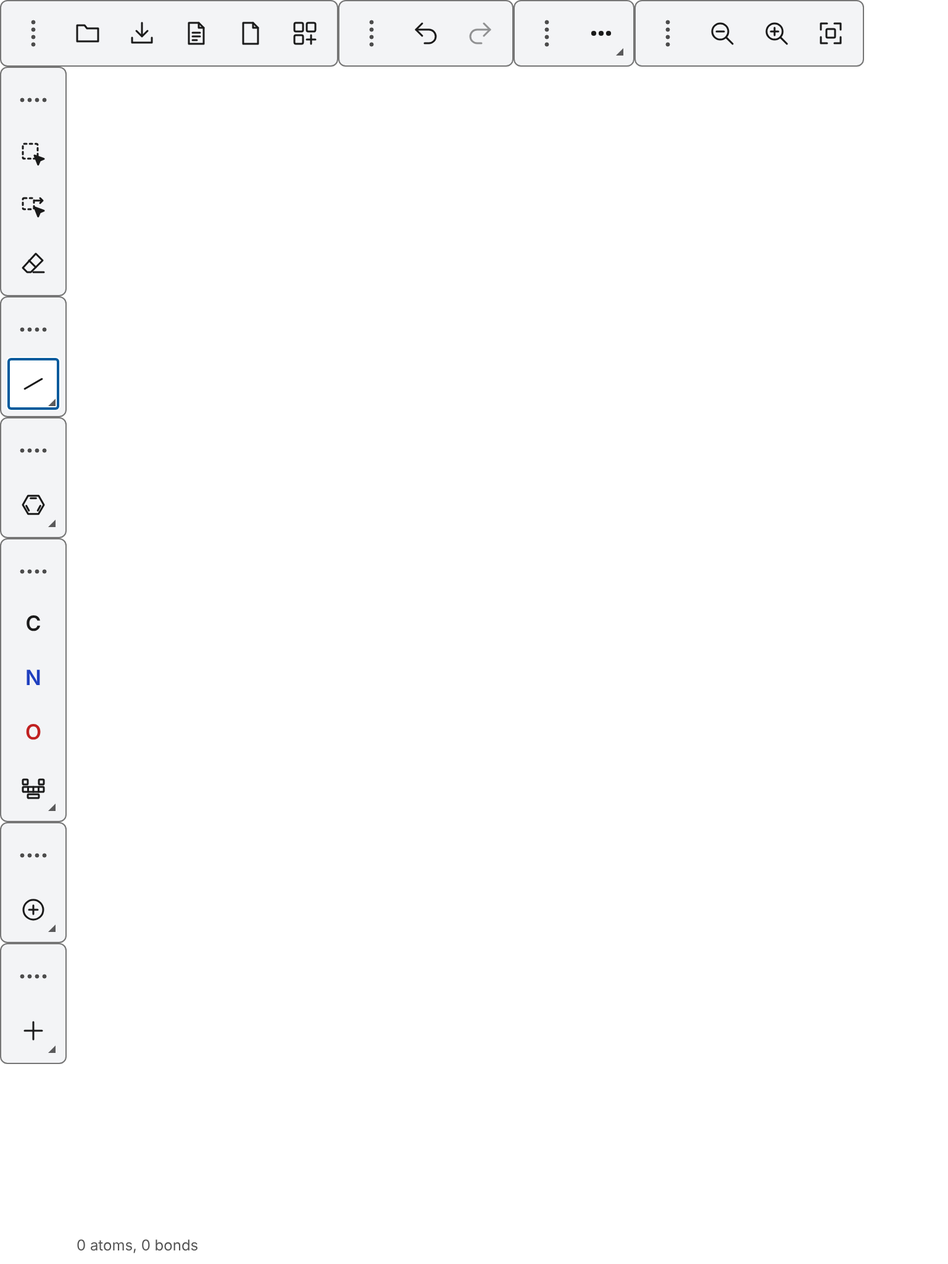
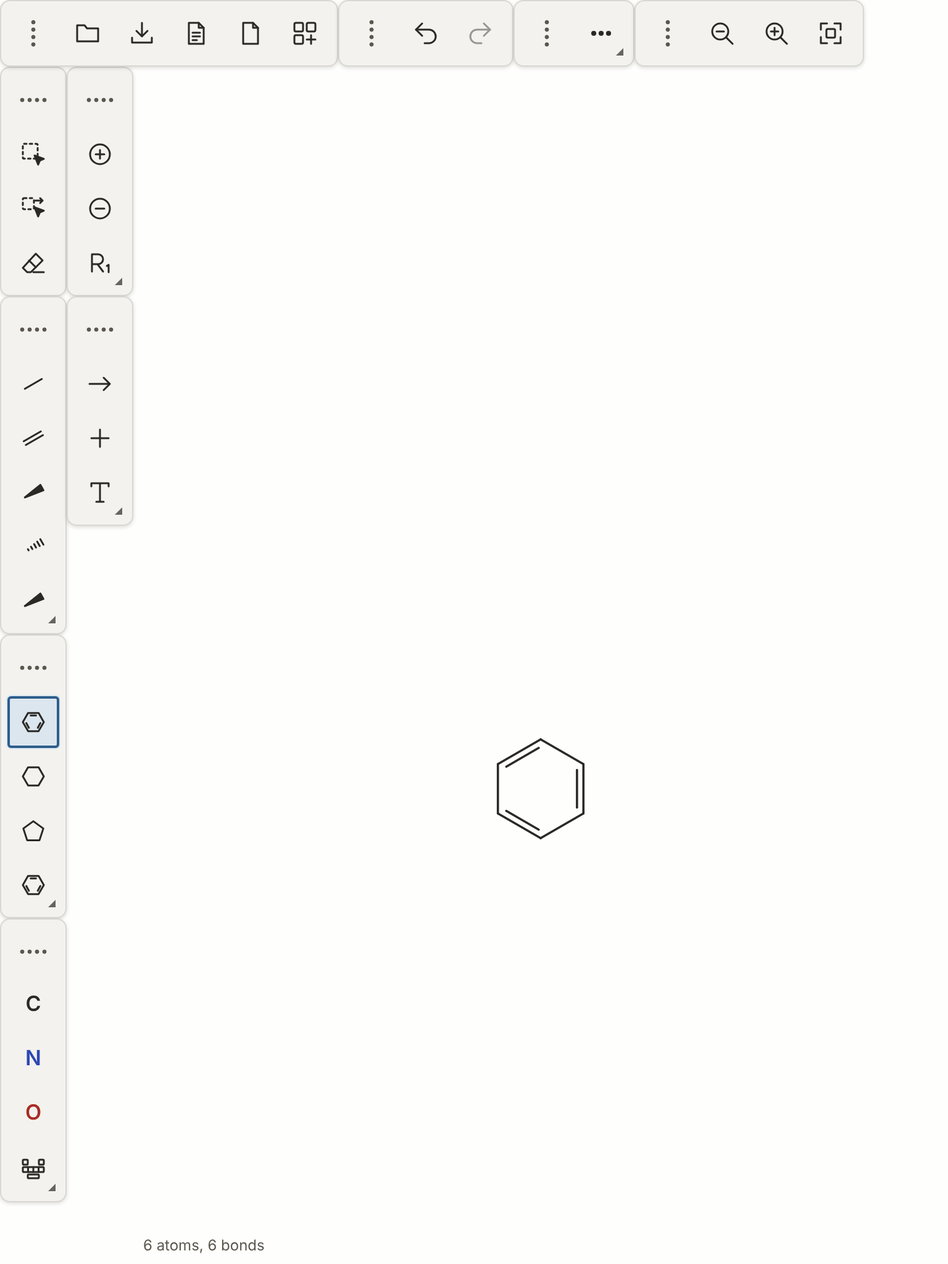
Light and dark tokens: the --mzd-* layer with WCAG AA and colour-distance tests (UI PR 3) (#64)
* Light and dark tokens: the --mzd-* layer with WCAG AA and colour-distance tests (UI PR 3, prep)

Claude-Session: https://claude.ai/code/session_01Ly8Apmm9AdSfoAgXXCmco3

* Tokens: the review fixes of the palettes page use the --mzd-* layer; built note and screenshots

Claude-Session: https://claude.ai/code/session_01Ly8ApnR6CMghdRhEmK6FkG

* Tokens review: contrast of every pair a colour meets, canvas pixels read back, shots with a drawing

New pairs (muted, danger, control and the focus ring on hover, soft accent and selection; atom colours on the
selection halo) and token values that pass them in both themes; the theme step reads the 2D context and a
screenshot pixel back against the tokens in both themes, in its own browser context; the e2e failure report
shows the call log and the throwing line; theme and tablet shots (light and dark) are taken with a drawing,
a selection and a valence mistake; docs/built/tokens.md says where the specification lives.

Claude-Session: https://claude.ai/code/session_01Ly8ApnR6CMghdRhEmK6FkG

* Keep the most-drawn tools in view in collapsed palettes; the velocity bench counts a hidden tool's flyout as actions

Single and double bond, the wedges, benzene, cyclohexane, cyclopentane, the charges, the arrow and the plus
stay visible when their palette is collapsed, so every task of tests/data/velocity keeps its action count
(--check passes, baseline unchanged); the bench counts the presses needed to reach a tool that is not in view.
[…]

diff --git a/web/mzdraw.css b/web/mzdraw.css
@@ -1,53 +1,74 @@
-/* The page: colours only from these variables (the canvas reads them too). */
-:root { --fg: #1a1a1a; --bg: #ffffff; --panel: #f3f4f6; --line: #767676; --grip: #4d4d4d; --accent: #005a9c; --d2-ink: #111111; --d2-select: #9cc7ee; --d2-hover: #d5d9de; --d2-warn: #c62828; --d2-preview: #5b7fa6; --d2-n: #1f3fbf; --d2-o: #c02020; --d2-s: #8a6d00; --d2-x: #1f7a1f; --d2-p: #b05a00; --d2-focus: #005a9c; }
-@media (prefers-color-scheme: dark) { :root { --fg: #ececec; --bg: #1b1b1b; --panel: #262626; --line: #9a9a9a; --grip: #d0d0d0; --accent: #7cc0ff; --d2-ink: #f0f0f0; --d2-select: #2f5f8a; --d2-hover: #454545; --d2-warn: #ff8a80; --d2-preview: #9db8d6; --d2-n: #8fa8ff; --d2-o: #ff8a80; --d2-s: #e6c14a; --d2-x: #7fd37f; --d2-p: #ffb066; --d2-focus: #7cc0ff; } }
-html, body { margin: 0; height: 100%; background: var(--bg); color: var(--fg); font: 14px/1.4 system-ui, sans-serif; }
+/* The page: every colour comes from the token layer --mzd-* (a light and a dark set, chosen by prefers-color-scheme or by
+   data-theme="light|dark" on the root, so a host such as mzLab maps its own theme onto the tokens without touching the page).
+   The prefix is NAMES.tokens of web/names.js; CSS cannot read it, so it is written out here only. The canvas reads the --d2-*
+   names, the rules the short names below, both made of tokens. Contrast of the token pairs is measured in tests/e2e.mjs. */
+:root, :root[data-theme="light"] { color-scheme: light;
+  --mzd-surface: #f3f2ee; --mzd-surface-raised: #fbfaf8; --mzd-paper: #fefefc; --mzd-border: rgb(43 40 34 / .13); --mzd-control: #7a756b;
+  --mzd-ink: #2a2925; --mzd-ink-muted: #5c5850; --mzd-accent: #2d5d8c; --mzd-accent-soft: #dce6ef; --mzd-hover: #e7e5df;
+  --mzd-selection: #c5d8ea; --mzd-focus: #2f6aa6; --mzd-danger: #a3231b; --mzd-shadow: rgb(43 40 34 / .16);
+  --mzd-atom-n: #2d47b5; --mzd-atom-o: #a92b25; --mzd-atom-s: #6b5300; --mzd-atom-x: #25652a; --mzd-atom-p: #8c4600; --mzd-preview: #62809f; }
+@media (prefers-color-scheme: dark) { :root:not([data-theme="light"]) { color-scheme: dark;
+  --mzd-surface: #22221f; --mzd-surface-raised: #2b2a27; --mzd-paper: #1b1b19; --mzd-border: rgb(240 234 222 / .12); --mzd-control: #8b867d;
+  --mzd-ink: #e2dfd8; --mzd-ink-muted: #b4afa5; --mzd-accent: #93b9e0; --mzd-accent-soft: #2f3e4f; --mzd-hover: #353430;
+  --mzd-selection: #2a3f54; --mzd-focus: #8db6e2; --mzd-danger: #f59b91; --mzd-shadow: rgb(0 0 0 / .45);
+  --mzd-atom-n: #aab9ff; --mzd-atom-o: #ff9a90; --mzd-atom-s: #e3c862; --mzd-atom-x: #8ed38e; --mzd-atom-p: #f7b070; --mzd-preview: #9ab3cf; } }
+:root[data-theme="dark"] { color-scheme: dark;
+  --mzd-surface: #22221f; --mzd-surface-raised: #2b2a27; --mzd-paper: #1b1b19; --mzd-border: rgb(240 234 222 / .12); --mzd-control: #8b867d;
+  --mzd-ink: #e2dfd8; --mzd-ink-muted: #b4afa5; --mzd-accent: #93b9e0; --mzd-accent-soft: #2f3e4f; --mzd-hover: #353430;
+  --mzd-selection: #2a3f54; --mzd-focus: #8db6e2; --mzd-danger: #f59b91; --mzd-shadow: rgb(0 0 0 / .45);
+  --mzd-atom-n: #aab9ff; --mzd-atom-o: #ff9a90; --mzd-atom-s: #e3c862; --mzd-atom-x: #8ed38e; --mzd-atom-p: #f7b070; --mzd-preview: #9ab3cf; }
+/* the names the canvas reads (web/mzdraw.js COLOURS) */
+:root { --d2-ink: var(--mzd-ink); --d2-select: var(--mzd-selection); --d2-hover: var(--mzd-hover); --d2-warn: var(--mzd-danger); --d2-preview: var(--mzd-preview);
+  --d2-n: var(--mzd-atom-n); --d2-o: var(--mzd-atom-o); --d2-s: var(--mzd-atom-s); --d2-x: var(--mzd-atom-x); --d2-p: var(--mzd-atom-p); --d2-focus: var(--mzd-focus); }
+:root { --fg: var(--mzd-ink); --bg: var(--mzd-surface-raised); --panel: var(--mzd-surface); --line: var(--mzd-control); --accent: var(--mzd-accent); --grip: var(--mzd-ink-muted); }
+html, body { margin: 0; height: 100%; background: var(--mzd-paper); color: var(--fg); font: 14px/1.4 system-ui, sans-serif; }
 body { overflow: hidden; }
 h2 { font-size: 13px; margin: 8px 0 4px; }
 button { -webkit-tap-highlight-color: transparent; min-height: 32px; min-width: 32px; padding: 2px 8px; color: var(--fg); background: var(--bg); border: 1px solid var(--line); border-radius: 4px; cursor: pointer; font: inherit; }
-button[aria-pressed="true"] { background: var(--accent); color: var(--bg); border-color: var(--accent); font-weight: 600; }
+button[aria-pressed="true"] { background: var(--mzd-accent-soft); color: var(--fg); border-color: var(--accent); font-weight: 600; }
 .field { display: flex; align-items: center; gap: 4px; }
 .field select { min-height: 32px; color: var(--fg); background: var(--bg); border: 1px solid var(--line); border-radius: 4px; font: inherit; }
-.field select:focus-visible { outline: 3px solid var(--accent); outline-offset: 1px; }
+.field select:focus-visible { outline: 2px solid var(--mzd-focus); outline-offset: 1px; }
 .field input { min-height: 28px; padding: 2px 6px; color: var(--fg); background: var(--bg); border: 1px solid var(--line); border-radius: 4px; font: inherit; }
 #d2-style-fields .field { justify-content: space-between; margin: 4px 0; }
 #d2-style-fields .field span { flex: 1; }
 #d2-style-fields input { width: 6em; }
-#d2-data fieldset { border: 1px solid var(--line); border-radius: 4px; margin: 6px 0; padding: 6px; }
+#d2-data fieldset { border: 1px solid var(--mzd-border); border-radius: 6px; margin: 6px 0; padding: 6px; }
 #d2-data .d2-datum { align-items: flex-start; margin: 4px 0; }
 #d2-data .d2-datum input { width: 8em; min-height: 28px; }
 #d2-data .d2-datum textarea { flex: 1; min-width: 0; min-height: 28px; font: inherit; color: var(--fg); background: var(--bg); border: 1px solid var(--line); border-radius: 4px; }
-#d2-ann fieldset { border: 1px solid var(--line); border-radius: 4px; margin: 6px 0; padding: 6px; }
+#d2-ann fieldset { border: 1px solid var(--mzd-border); border-radius: 6px; margin: 6px 0; padding: 6px; }
 #d2-ann .d2-annf { display: block; margin: 4px 0; }
 #d2-ann .d2-annf input, #d2-ann .d2-annf select, #d2-ann .d2-annf textarea { display: block; width: 100%; box-sizing: border-box; min-height: 28px; font: inherit; color: var(--fg); background: var(--bg); border: 1px solid var(--line); border-radius: 4px; }
 #d2-data-more summary, #d2-ann-more summary, #d2-style-more summary { cursor: pointer; margin: 6px 0; }
 .field input.on { border-color: var(--accent); box-shadow: inset 0 0 0 1px var(--accent); }
-.field input[aria-invalid="true"] { border-color: var(--d2-warn); box-shadow: inset 0 0 0 1px var(--d2-warn); text-decoration: underline wavy var(--d2-warn); }
-.field input:focus-visible { outline: 3px solid var(--accent); outline-offset: 1px; }
+.field input[aria-invalid="true"] { border-color: var(--mzd-danger); box-shadow: inset 0 0 0 1px var(--mzd-danger); text-decoration: underline wavy var(--mzd-danger); }
+.field input:focus-visible { outline: 2px solid var(--mzd-focus); outline-offset: 1px; }
 button:disabled { opacity: .45; cursor: default; }
-button:focus-visible, canvas:focus-visible, textarea:focus-visible { outline: 3px solid var(--accent); outline-offset: 1px; }
+button:focus-visible, canvas:focus-visible, textarea:focus-visible, summary:focus-visible, input[type="checkbox"]:focus-visible { outline: 2px solid var(--mzd-focus); outline-offset: 2px; }
+canvas:focus-visible { outline-offset: -3px; }
 #d2-restore[hidden] { display: none; }
 #d2-restore { position: absolute; left: 8px; right: 8px; top: 8px; display: flex; flex-wrap: wrap; gap: 8px; align-items: center; padding: 6px 10px; background: var(--panel); border: 1px solid var(--line); border-bottom: 2px solid var(--accent); border-radius: 6px; }
 /* the canvas takes the area the palettes leave free (placed by the module's layout) */
 #d2-stage { position: fixed; left: 0; top: 0; width: 100vw; height: 100vh; }
-#d2-canvas { display: block; width: 100%; height: 100%; touch-action: none; background: var(--bg); cursor: crosshair; }
-#d2-status { position: absolute; left: 8px; bottom: 6px; color: var(--fg); opacity: .75; pointer-events: none; font-size: 12px; }
+#d2-canvas { display: block; width: 100%; height: 100%; touch-action: none; background: var(--mzd-paper); cursor: crosshair; }
+#d2-status { position: absolute; left: 8px; bottom: 6px; color: var(--mzd-ink-muted); pointer-events: none; font-size: 12px; }
 /* palettes: placed by the module (left, top); a row at the top or bottom, a column at the sides, either when floating */
-.pal { position: fixed; z-index: 10; display: flex; width: max-content; box-sizing: border-box; padding: 4px; background: var(--panel); border: 1px solid var(--line); border-radius: 6px; }
+.pal { position: fixed; z-index: 10; display: flex; width: max-content; box-sizing: border-box; padding: 4px; background: var(--panel); border: 1px solid var(--mzd-border); border-radius: 8px; box-shadow: 0 1px 3px var(--mzd-shadow); }
 .pal[hidden] { display: none; }
 .pal[data-orient="v"] { flex-direction: column; }
 .pal .items { display: flex; gap: 0; }
 .pal[data-orient="v"] .items { flex-direction: column; }
-.pal.moving { z-index: 30; box-shadow: 0 6px 18px rgb(0 0 0 / .25); }
+.pal.moving { z-index: 30; box-shadow: 0 6px 18px var(--mzd-shadow); }
 .pal .items button { display: inline-flex; align-items: center; justify-content: center; width: 44px; height: 44px; min-width: 0; padding: 0; border-color: transparent; background: transparent; }
-@media (hover: hover) { .pal .items button:hover:not(:disabled), .fly button:hover:not(:disabled), .grip:hover { background-color: var(--bg); } }
+@media (hover: hover) { .pal .items button:hover:not(:disabled), .fly button:hover:not(:disabled), .grip:hover { background-color: var(--mzd-hover); } }
 .pal .txt { position: absolute; width: 1px; height: 1px; overflow: hidden; clip-path: inset(50%); }
 .pal .head { position: relative; }
 .pal .head::after { content: ""; position: absolute; right: 3px; bottom: 3px; border: 3px solid transparent; border-right-color: currentColor; border-bottom-color: currentColor; opacity: .7; }
 .grip { flex: none; box-sizing: border-box; min-width: 0; min-height: 0; border: 0; border-radius: 3px; background: radial-gradient(circle, var(--grip) 1.5px, transparent 1.9px) 0 0 / 6px 6px; background-clip: content-box; background-origin: content-box; cursor: grab; touch-action: none; }
 .pal[data-orient="v"] > .grip { height: 24px; width: 100%; padding: 9px 10px; }
 .pal[data-orient="h"] > .grip { width: 24px; align-self: stretch; padding: 10px 9px; }
-.pal .items button[aria-pressed="true"], .fly button[aria-pressed="true"] { background: var(--bg); color: var(--fg); box-shadow: inset 0 0 0 2px var(--accent); }
+.pal .items button[aria-pressed="true"], .fly button[aria-pressed="true"] { background: var(--mzd-accent-soft); color: var(--fg); box-shadow: inset 0 0 0 2px var(--accent); }
 .grip:active { cursor: grabbing; }
 .ico { width: 24px; height: 24px; flex: none; }
 .sym { font-weight: 600; font-size: 17px; min-width: 24px; text-align: center; }
@@ -59,14 +80,14 @@ button:focus-visible, canvas:focus-visible, textarea:focus-visible { outline: 3p
 .pal.side { flex-direction: column; width: 280px; max-height: max(120px, calc((100vh - 280px) / 3)); padding: 4px 10px 6px; }
 /* what does not fit scrolls, and says so: a shadow at the edge that has more behind it */
 .pal.side > details { overflow: auto; min-height: 0; background-color: var(--panel);
-  background-image: linear-gradient(var(--panel) 40%, transparent), linear-gradient(transparent, var(--panel) 60%), radial-gradient(farthest-side at 50% 0, rgb(0 0 0 / .3), transparent), radial-gradient(farthest-side at 50% 100%, rgb(0 0 0 / .3), transparent);
+  background-image: linear-gradient(var(--panel) 40%, transparent), linear-gradient(transparent, var(--panel) 60%), radial-gradient(farthest-side at 50% 0, var(--mzd-shadow), transparent), radial-gradient(farthest-side at 50% 100%, var(--mzd-shadow), transparent);
   background-position: 0 0, 0 100%, 0 0, 0 100%; background-repeat: no-repeat; background-size: 100% 24px, 100% 24px, 100% 9px, 100% 9px; background-attachment: local, local, scroll, scroll; }
 .pal.side > details > summary { padding: 4px 0; }
 .pal.side p, .pal.side h2, .pal.side ul { margin: 2px 0; }
 .pal.side h2 { font-size: 1em; }
 .pal.side textarea { display: block; }
 /* flyouts: beside the button that opens them, on the side away from the palette's edge */
-#d2-flys .fly { position: fixed; z-index: 40; display: flex; flex-direction: column; gap: 2px; min-width: 200px; max-height: 80vh; overflow: auto; padding: 6px; background: var(--panel); border: 1px solid var(--line); border-radius: 6px; box-shadow: 0 6px 20px rgb(0 0 0 / .2); }
+#d2-flys .fly { position: fixed; z-index: 40; display: flex; flex-direction: column; gap: 2px; min-width: 200px; max-height: 80vh; overflow: auto; padding: 6px; background: var(--bg); border: 1px solid var(--mzd-border); border-radius: 8px; box-shadow: 0 6px 20px var(--mzd-shadow); }
 #d2-flys .fly[hidden], #d2-fly-saveas[hidden] { display: none; }
 .fly button[data-cmd], .fly button[data-opens] { display: flex; align-items: center; justify-content: flex-start; gap: 8px; width: 100%; min-height: 40px; border-color: transparent; background: transparent; }
 .fly.grid { display: grid; grid-template-columns: repeat(5, 44px); min-width: 0; }
@@ -85,7 +106,7 @@ button:focus-visible, canvas:focus-visible, textarea:focus-visible { outline: 3p
 .menu input:disabled { cursor: default; border-style: dashed; border-color: var(--line); background: var(--panel); }
 .menu input:checked:disabled { background: var(--line); border-color: var(--line); }
 .menu input:focus-visible { outline: 3px solid var(--d2-focus); outline-offset: 2px; }
-#d2-dock-hint { position: fixed; z-index: 25; background: var(--accent); opacity: .45; pointer-events: none; }
+#d2-dock-hint { position: fixed; z-index: 25; background: var(--mzd-accent); opacity: .5; pointer-events: none; }
 #d2-dock-hint[data-edge="left"] { left: 0; top: 0; bottom: 0; width: 6px; } #d2-dock-hint[data-edge="right"] { right: 0; top: 0; bottom: 0; width: 6px; }
 #d2-dock-hint[data-edge="top"] { left: 0; right: 0; top: 0; height: 6px; } #d2-dock-hint[data-edge="bottom"] { left: 0; right: 0; bottom: 0; height: 6px; }
 #d2-show-all { position: fixed; z-index: 30; left: 6px; top: 6px; }

diff --git a/web/palettes.js b/web/palettes.js
@@ -15,11 +15,12 @@ const P = NAMES.id;
  * palettes are written in index.html. */
 const SPEC = /** @type {Record<string, any>} */ ({
   tools: { items: ["select", "move-here", "erase"], tool: true },
-  bonds: { items: ["bond:1", "bond:2", "bond:3", "bond:up", "bond:down", "bond:wavy"], tool: true },
-  rings: { items: ["ring:6a", "ring:3", "ring:4", "ring:5", "ring:6", "ring:7", "ring:8"], tool: true },
+  // the kinds drawn most (single and double bond, the wedges, benzene, cyclohexane, cyclopentane, a charge, an arrow, a plus) stay in view when the palette is collapsed
+  bonds: { keep: ["bond:1", "bond:2", "bond:up", "bond:down"], items: ["bond:3", "bond:wavy"], tool: true },
+  rings: { keep: ["ring:6a", "ring:6", "ring:5"], items: ["ring:3", "ring:4", "ring:7", "ring:8"], tool: true },
   atoms: { keep: ["atom:C", "atom:N", "atom:O"], items: ["atom:S", "atom:P", "atom:F", "atom:Cl", "atom:Br", "atom:I", "atom:H", "atom:B", "atom:Si"], head: "elements", more: "elements", owns: "atom:", fields: ["atom"], grid: true },
-  charges: { items: ["charge:+", "charge:-"], tool: true, owns: "label:", fields: ["label"], more: "label" },
-  objects: { items: ["arrow", "plus"], tool: true, owns: "text:", fields: ["text"], more: "text" },
+  charges: { keep: ["charge:+", "charge:-"], items: [], head: "label", owns: "label:", fields: ["label"], more: "label" },
+  objects: { keep: ["arrow", "plus"], items: [], head: "text", owns: "text:", fields: ["text"], more: "text" },
   file: { items: ["open", "save", "saveas", "clear", "palettes"], head: "open" },
   history: { items: ["undo", "redo"], head: "undo" },
   edit: { items: ["cut", "copy", "paste", "duplicate", "all", "rotate-l", "rotate-r", "flip-h", "flip-v"], head: "more" },
@@ -154,7 +155,7 @@ function palette(id) {
   head.type = "button"; head.className = "head"; head.dataset.testid = P + "head-" + id; head.setAttribute("aria-expanded", "false"); head.setAttribute("aria-controls", P + "fly-" + id);
   const keep = (spec.keep || []).map((/** @type {string} */ c) => button(c, id)), rest = spec.items.map((/** @type {string} */ c) => button(c, id));
   const fields = (spec.fields || []).flatMap((/** @type {string} */ k) => ctx.field(k));
-  const p = { id, spec, el, items, head, keep, rest, fields, last: spec.tool ? spec.items[0] : "", collapsed: /** @type {boolean | null} */ (null),
+  const p = { id, spec, el, items, head, keep, rest, fields, last: spec.tool ? (spec.keep || [])[0] || spec.items[0] : "", collapsed: /** @type {boolean | null} */ (null),
     owns: (/** @type {string} */ c) => spec.items.includes(c) || (!!spec.owns && c.startsWith(spec.owns) && !(spec.keep || []).includes(c)) };
   pals[id] = p;
   const fly = flyout(id, head, id);
@@ -209,7 +210,8 @@ function fold(p, collapsed) {
 export function show(st) {
   for (const p of Object.values(pals)) {
     if (!p.spec) continue;
-    if (p.spec.tool && p.spec.items.includes(st.tool) && p.last !== st.tool) { p.last = st.tool; if (p.collapsed) p.head.replaceChildren(face(p.last)); }
+    // the head shows, and runs, the kind last used, whether that kind is kept in view or in the flyout
+    if (p.spec.tool && [...(p.spec.keep || []), ...p.spec.items].includes(st.tool) && p.last !== st.tool) { p.last = st.tool; if (p.collapsed) p.head.replaceChildren(face(p.last)); }
     const mine = p.owns(st.tool) && (p.collapsed || !p.spec.items.includes(st.tool));
     p.head.setAttribute("aria-pressed", String(mine));
   }
@@ -246,16 +248,20 @@ function shape(r) {
   p.el.hidden = r.hidden; p.el.dataset.dock = r.dock; p.el.dataset.orient = r.horizontal ? "h" : "v";
   p.el.setAttribute("aria-orientation", r.horizontal ? "horizontal" : "vertical");
   if (p.spec) fold(p, r.collapsed);
-  else if (p.body.open === r.collapsed) p.body.open = !r.collapsed;
+  else if (!p.pending && p.body.open === r.collapsed) p.body.open = !r.collapsed;
 }
 
 /** a side palette of index.html: its handle, and its disclosure as the collapsed state of the module @param {HTMLElement} el */
 function side(el) {
   const id = el.dataset.pal || "", body = /** @type {HTMLDetailsElement} */ (el.querySelector(":scope > details"));
-  pals[id] = { id, el, body, spec: null };
+  const p = pals[id] = { id, el, body, spec: null, pending: false };
   el.setAttribute("aria-label", ctx.t(`draw2.pal.${id}`));
   el.prepend(grip(id));
+  // a click on the title opens or closes the disclosure at once, but the `toggle` event that tells the module comes later: until it has,
+  // a layout that runs in between must not put the old state back (that closed a palette the user had just opened)
+  body.querySelector(":scope > summary")?.addEventListener("click", () => { p.pending = true; });
   body.addEventListener("toggle", () => {
+    p.pending = false;
     const r = last?.palettes.find((/** @type {any} */ x) => x.id === id);
     if (r && r.collapsed === body.open) after(ed().palette("collapsed", id, 0, 0, false), true);
   });

diff --git a/web/mzdraw.js b/web/mzdraw.js
@@ -348,6 +348,8 @@ function events() {
   });
   addEventListener("resize", () => { menu.close(); layout(); });
   matchMedia("(prefers-color-scheme: dark)").addEventListener("change", paint);
+  // a host page may set the theme on the root (data-theme="light|dark"): the canvas is painted again in its colours
+  new MutationObserver(paint).observe(document.documentElement, { attributes: true, attributeFilter: ["data-theme"] });
 }
 
 /** adds a structure text, or the bytes of a file, to the drawing and says how it went @param {string | Uint8Array} text */

diff --git a/web/names.js b/web/names.js
@@ -8,4 +8,5 @@ export const NAMES = Object.freeze({
   clip: "application/x-mzdraw+json",          // our own clipboard type: the document
   doc: "drawing.mzdraw.json",                 // the download name of the document
   id: "d2-",                                  // the prefix of the ids the scripts make
+  tokens: "--mzd-",                           // the prefix of the colour tokens (web/mzdraw.css), which a host may set
 });

diff --git a/docs/built/palettes-page.md b/docs/built/palettes-page.md
@@ -3,3 +3,5 @@
 Every group of actions is a palette (`web/palettes.js`): tools, bonds, rings, atoms, charges and labels, reaction and text, file, history, edit, view, and the six side palettes (add a structure, style, data, annotation, check, keyboard help). The page builds them, measures them, sends the pointer (mouse, touch, pen) and key events of their handles to `palette(...)` and paints what `palettes(...)` answers: where each one is, its edge, row or column, collapsed or hidden. A collapsed palette shows its head, which shows the kind last used; the rest is in a flyout reached by click or by the arrow key across the palette. Handles are 24 px for a mouse and 44 px for touch and pen; a double click collapses a palette. The Palettes menu of the File palette shows, hides, collapses and turns each palette, resets the layout and hides them all (`\` on the canvas does the same; a Palettes button brings them back). The layout is kept with the settings file in the browser (OPFS). Save writes `export.default` (SVG unless set); Save as lists the 12 formats. The canvas takes the free area. The ids and storage names the scripts write are in `web/names.js`, the icons (original) in `web/icons.js`. The tools palette holds Select, Move here and Erase; the drawing checks `std/1` list is a section of the Check palette; a side palette is capped at a share of the page height (less on a touch screen, whose handles and buttons are larger) so the right column does not wrap into the canvas, and what does not fit scrolls inside it. The `\` key returns the flag `PALETTES` (128), which the page consumes: it lays the palettes out again and keeps the settings. Covered by two e2e steps (desktop: four edges, floating, snapped, keyboard, menu, `\`, reset, built keys only in tooltips; tablet: 44 px handles, drags by finger and pen, menu by tapping).
 
 Review round: what is decided is in Rust, the page paints it. `palettes(...)` answers the palette being dragged (`held`), the edge it docks on if let go now (`hint_edge`, the one `release` uses) and, per palette, whether it can turn (`can_turn`: only a floating one). The drag threshold is the module's (`DRAG_START`, 4 px): the page always forwards press, move, release and cancel, and a click with a little jitter moves nothing and stores nothing. The handle is named by `aria-label` and says its keys in `aria-description` (arrows, Shift, Enter, Escape, double click, the backslash key). The backslash key also works with the focus on a palette button or handle (not in a text field). The menu boxes are drawn with the page's colours, 44 px on a touch screen; the grip dots have their own token (`--grip`); hover styles apply only where there is a hover. A side palette that cannot show all of its content scrolls and shows a shadow at the edge with more behind it. The e2e checks a reload restores the layout, the jitter click, the handle's description and the key from a handle; the desktop shots are taken with a mouse and keyboard only (`docs/shots/palettes-*.png`, tablet: `palettes-tablet-side.png` without the menu and `palettes-tablet-menu.png` with it).
+
+Velocity: the kinds drawn most stay in view in a collapsed palette (`keep` in `SPEC` of `web/palettes.js`): single and double bond, the two wedges, benzene, cyclohexane, cyclopentane, the two charges, the arrow and the plus; the head of a palette holds the rest in its flyout. The left side is two columns at 720 px. `tests/velocity.mjs` counts a tool that is not in view as the presses needed to open its flyout (the head of a collapsed palette first runs the kind last used, then opens the flyout), so a hidden tool costs actions and the guard (`--check`) sees it; the baseline is unchanged. The head of a collapsed tool palette shows and runs the kind used last, kept in view or in the flyout; on a fresh page it is the first kept kind (the single bond, benzene), never the first kind of the flyout. The e2e step "collapsed palettes" runs on a fresh page and fails with the head seeded from the flyout; the kept kinds are checked visible, by keyboard (Enter), by touch (44 px, a finger runs them) and with no overlap at 720 px. A side palette's disclosure is synced with the module's `collapsed` both ways; while the `toggle` of a click on its title is on its way a layout does not put the old state back (it had closed a palette just opened, now and then).

diff --git a/docs/built/tokens.md b/docs/built/tokens.md
@@ -1,0 +1,12 @@
+# Light and dark tokens, built (PR 3 of the UI work)
+
+Every colour of the page comes from the `--mzd-*` tokens of `web/mzdraw.css` (prefix `NAMES.tokens`): a light and a dark set, chosen by `prefers-color-scheme` or by `data-theme="light|dark"` on the root, so a host maps its theme onto the tokens; the canvas is painted again when either changes. Warm neutral surfaces, ink that is never pure black or white, no yellow field. The e2e step "theme" measures WCAG 2.2 AA in both themes (text 4.5:1, icons, control borders and the focus ring 3:1), keeps the element colours at least ΔE 20 (CIE76) apart, and checks the focus ring. The golden SVGs are unchanged: the tokens colour the page, not the saved files. The side palettes' scroll shadows use `--mzd-shadow`, the grip dots `--grip` (mapped to `--mzd-ink-muted`). Screenshots at deviceScaleFactor 2: `docs/shots/theme-light.png`, `theme-dark.png` (desktop) and `palettes-tablet.png`.
+
+## Where the specification lives, and what the test measures
+The specification of the tokens is the CSS: the `:root` blocks at the top of `web/mzdraw.css` (a light set, a dark set by `prefers-color-scheme`, and `data-theme="light|dark"` on the root, which wins). There is no second table to keep in step; the e2e step "theme" reads the tokens from the computed style and measures them.
+- Contrast (WCAG 2.2 AA): text 4.5:1 and icons, control borders and the focus ring 3:1, over every surface they meet, including the hover, the soft accent and the halo of a selection; the atom colours are read on the paper, the chrome and the selection halo; the danger colour on the selection. The focus ring must hold against the paper, the chrome, the hover and the selection.
+- Distance: the six atom inks (carbon is the ink) are at least 20 apart in CIE76; no surface has a yellow cast (b* under 12).
+- The canvas itself: in a drawing with a nitrogen, oxygen, sulfur, chlorine and phosphorus atom, a selection and a carbon with five bonds, the 2D context is read back and every mark is in its token (ink, halo, each atom colour, the colour of the mistake), and the paper under the canvas is read from a screenshot; in both themes, so a theme that did not repaint would fail.
+- A disabled control is drawn at opacity .45. WCAG 1.4.3 and 1.4.11 exempt disabled controls from the contrast minimum, so it is not measured; its state is also said in words (the `disabled` attribute and the name of the control).
+- Screenshots at deviceScaleFactor 2, with a drawing, a selection and a mistake: `docs/shots/theme-light.png`, `theme-dark.png`; the tablet in light and dark: `palettes-tablet.png`, `palettes-tablet-dark.png`.
+
